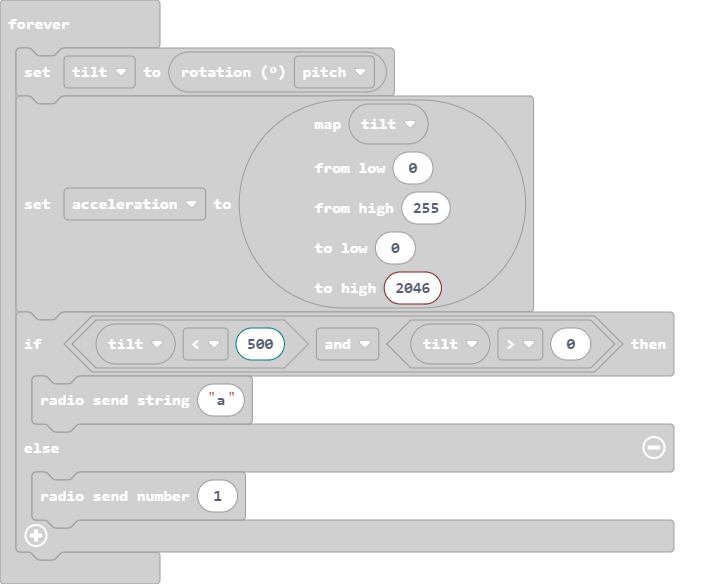
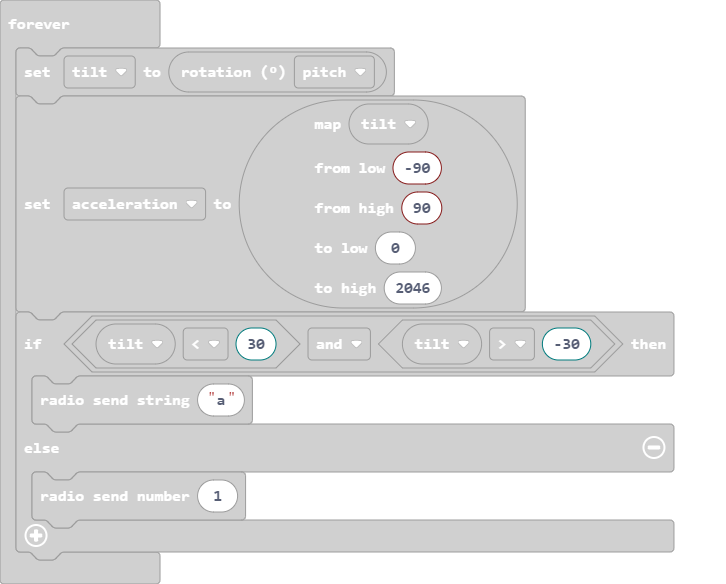
Update main.blocks, main.ts

diff --git a/main.ts b/main.ts
@@ -17,12 +17,12 @@ basic.forever(function () {
     tilt = input.rotation(Rotation.Pitch)
     acceleration = pins.map(
     tilt,
-    0,
-    255,
+    -90,
+    90,
     0,
     2046
     )
-    if (tilt < 500 && tilt > 0) {
+    if (tilt < 30 && tilt > -30) {
         radio.sendString("a")
     } else {
         radio.sendNumber(1)
